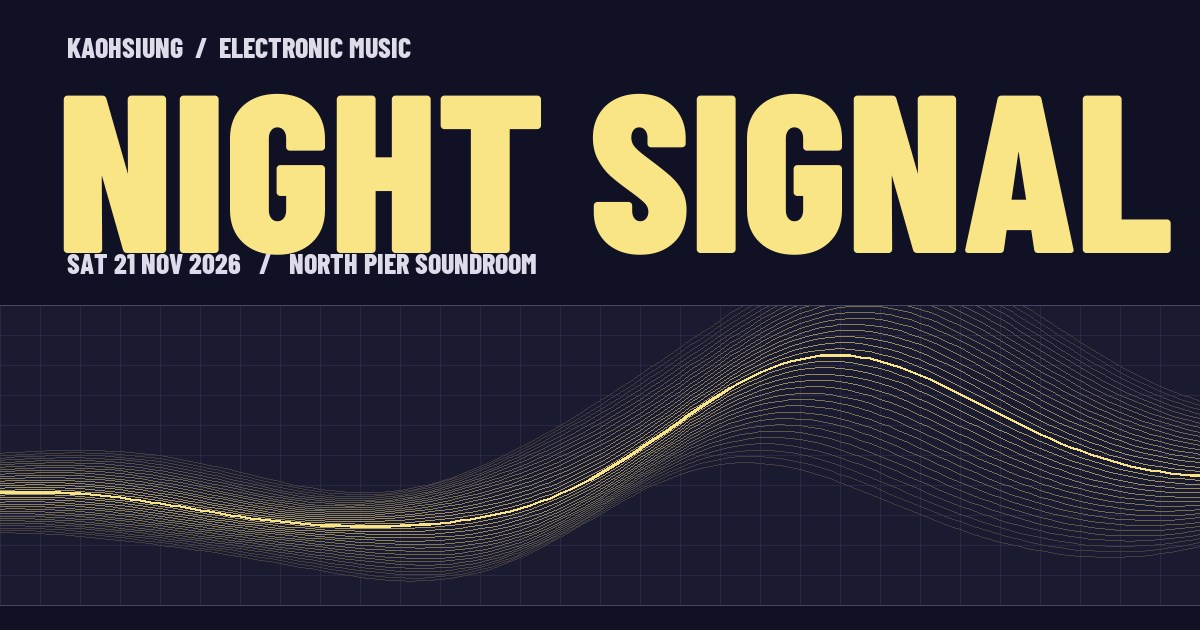
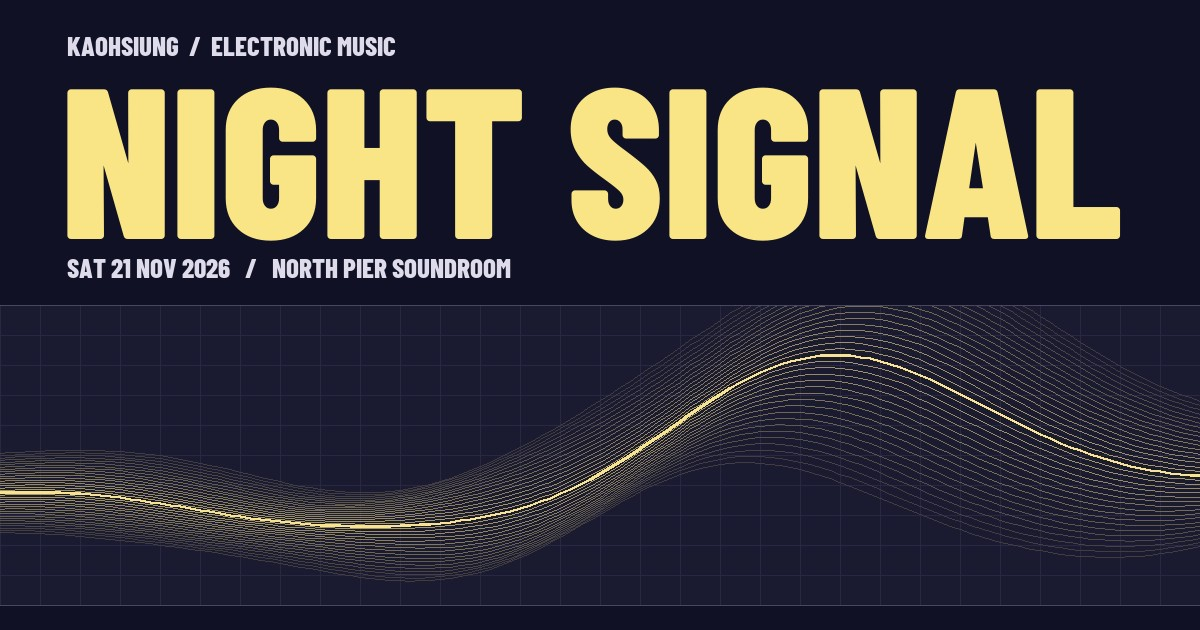
Keep ticket submission stable during validation

Changed region(s): [[0.0308, 0.1206, 0.9867, 0.4524], [0.0617, 0.0603, 0.3392, 0.0905]]

diff --git a/src/works/night-signal/page.css b/src/works/night-signal/page.css
@@ -141,7 +141,7 @@
   isolation: isolate;
   overflow: hidden;
   block-size: clamp(12rem, 29.17vw, 27rem);
-  background: #101125;
+  background: radial-gradient(ellipse at 64% 46%, #272341, #15162d 69%, #101125);
   border-block: 1px solid var(--night-rule);
 }
 .signal-art img, .signal-art canvas {
@@ -161,7 +161,9 @@
   opacity: 0.78;
 }
 .signal-art[data-motion="running"] canvas { visibility: visible; }
-.signal-art[data-channel="echo"] img { filter: hue-rotate(147deg) saturate(1.25); }
+.signal-art[data-channel="echo"] { background: radial-gradient(ellipse at 64% 46%, #292648, #16162f 72%, #101125); }
+.signal-art[data-channel="echo"] img { filter: hue-rotate(179deg) saturate(1.25); }
+.signal-art[data-channel="dawn"] { background: radial-gradient(ellipse at 64% 46%, #37243b, #20182f 69%, #101125); }
 .signal-art[data-channel="dawn"] img { filter: hue-rotate(-41deg) saturate(1.18); }
 .hero-strip { color: var(--night-copy); }
 .hero-strip-inner {
@@ -304,6 +306,7 @@
   margin: calc((44px - 1.18rem) / 2) 0 0;
 }
 .pass-option input:disabled { display: none; }
+.pass-option:has(:disabled) label { cursor: auto; }
 .pass-option label {
   grid-column: 2;
   display: flex;

diff --git a/src/works/night-signal/tickets.js b/src/works/night-signal/tickets.js
@@ -104,7 +104,6 @@ export function setupTickets(english) {
     if (!quantityError.hidden && quantity.validity.valid) markQuantityError(false);
     render();
   });
-  quantity.addEventListener("blur", () => markQuantityError(!quantity.validity.valid));
 
   form.addEventListener("submit", (event) => {
     event.preventDefault();
